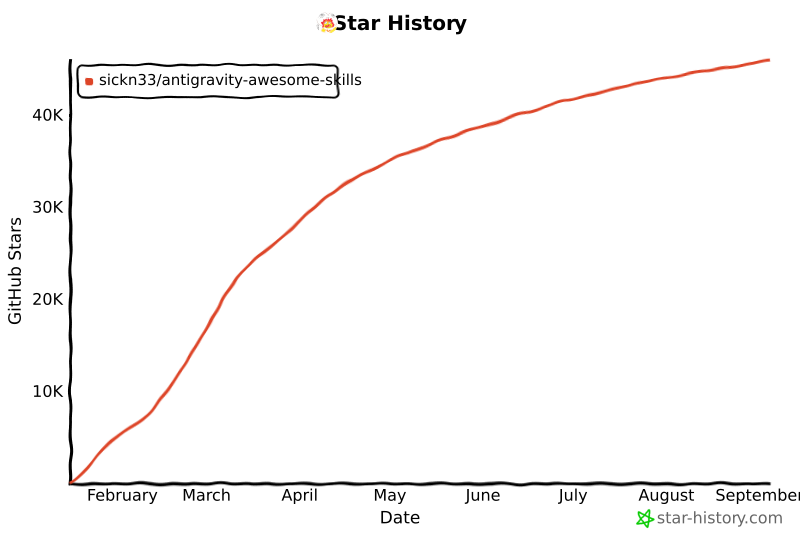
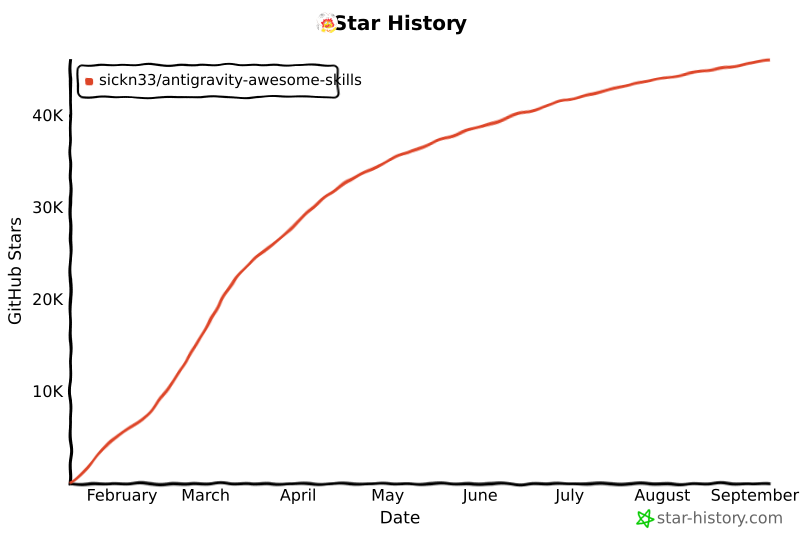
chore: update star history chart

diff --git a/README.md b/README.md
@@ -534,14 +534,14 @@ We officially thank the following contributors for their help in making this rep
 ## Star History
 
 <a href="https://www.star-history.com/#sickn33/antigravity-awesome-skills&type=date&legend=top-left">
- <img alt="Star History Chart" src="https://api.star-history.com/svg?repos=sickn33/antigravity-awesome-skills&type=date&legend=top-left&cache_bust=202609051015" />
+ <img alt="Star History Chart" src="https://api.star-history.com/svg?repos=sickn33/antigravity-awesome-skills&type=date&legend=top-left&cache_bust=202609061035" />
 </a>
 
 <a href="https://www.star-history.com/sickn33/antigravity-awesome-skills">
  <picture>
-   <source media="(prefers-color-scheme: dark)" srcset="https://api.star-history.com/chart?repos=sickn33/antigravity-awesome-skills&style=landscape1&theme=dark&cache_bust=202609051015" />
-   <source media="(prefers-color-scheme: light)" srcset="https://api.star-history.com/chart?repos=sickn33/antigravity-awesome-skills&style=landscape1&cache_bust=202609051015" />
-   <img alt="Star History Chart" src="https://api.star-history.com/chart?repos=sickn33/antigravity-awesome-skills&style=landscape1&cache_bust=202609051015" />
+   <source media="(prefers-color-scheme: dark)" srcset="https://api.star-history.com/chart?repos=sickn33/antigravity-awesome-skills&style=landscape1&theme=dark&cache_bust=202609061035" />
+   <source media="(prefers-color-scheme: light)" srcset="https://api.star-history.com/chart?repos=sickn33/antigravity-awesome-skills&style=landscape1&cache_bust=202609061035" />
+   <img alt="Star History Chart" src="https://api.star-history.com/chart?repos=sickn33/antigravity-awesome-skills&style=landscape1&cache_bust=202609061035" />
  </picture>
 </a>
 
